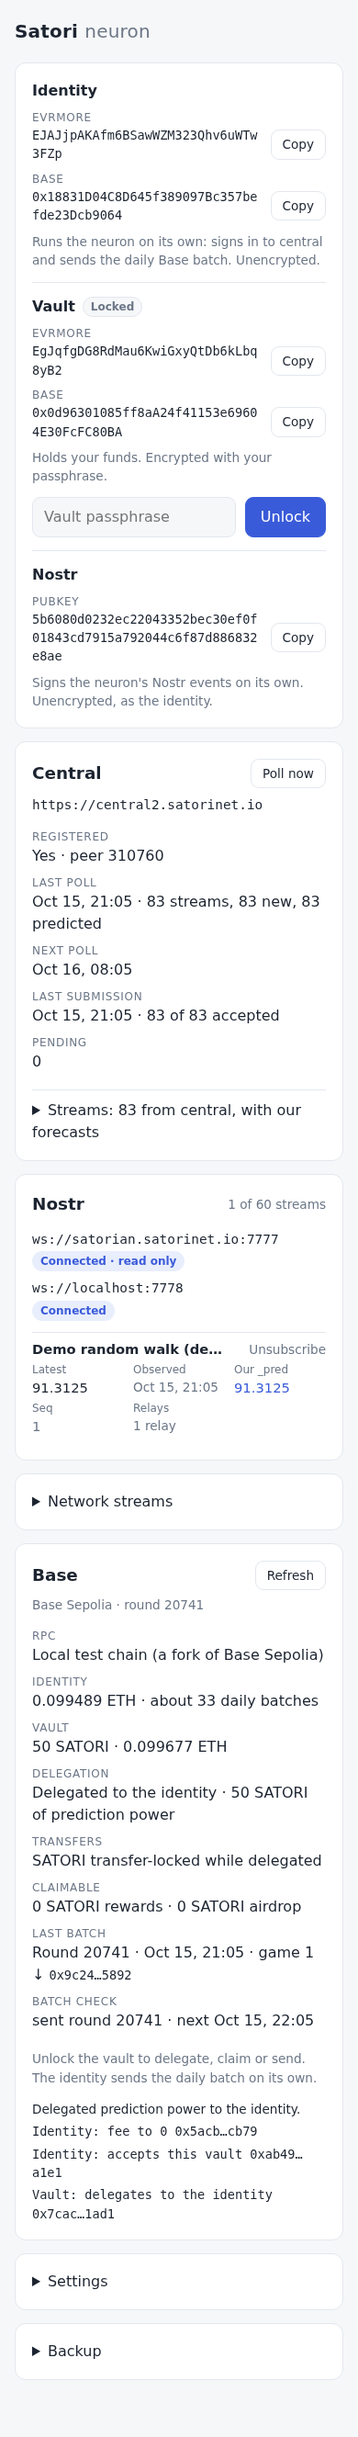
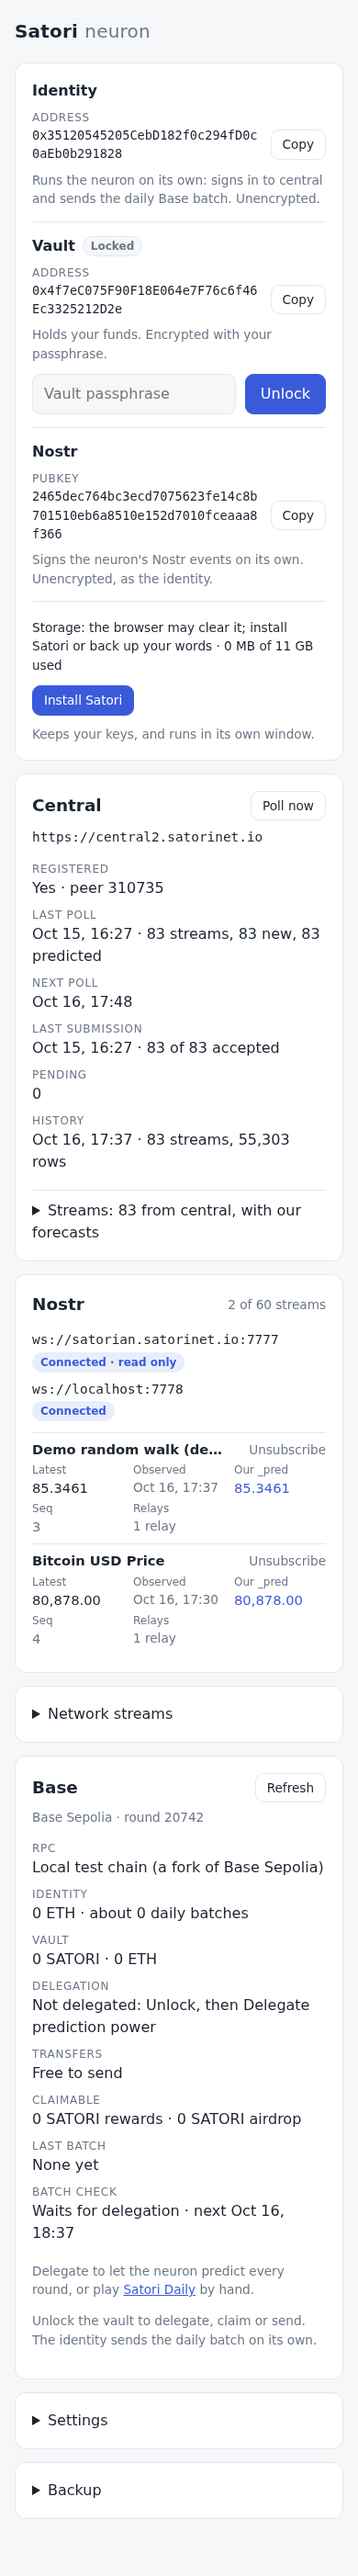
docs: screenshots from the running app: Home with Base addresses only (an earlier version's profile after the update), Import with the passphrase reuse, the passphrase rule; Unlock's cost measured in Chrome (seal 0.29-0.30 s, open 0.26-0.30 s)

diff --git a/docs/design/keys.md b/docs/design/keys.md
@@ -107,9 +107,10 @@ nothing):
   IV. A fresh salt means a fresh key each time, so an IV is never reused.
 - **Wrong passphrase:** GCM's tag fails, so a wrong passphrase (or any changed
   byte) is `Wrong passphrase`, with nothing decrypted.
-- **Cost:** about 1 s per Unlock in Node on this shared box (seal 1.3 s,
-  open 1.1 s at load ~4); Chrome's WebCrypto is native too. One Unlock pays it
-  once; an attacker pays it per guess.
+- **Cost:** measured in Chrome on this shared box (dev server, 2026-10-16):
+  seal 0.29–0.30 s, open 0.26–0.30 s. One Unlock pays it once; an attacker
+  pays it per guess. (An earlier version's vault takes satorilib's
+  PBKDF2-SHA1 × 1,000,000 per field once more, at its first Unlock: 0.7–1.5 s.)
 - **Why not Argon2id or scrypt**, OWASP's first choices: WebCrypto has
   neither. `@noble/hashes` (already a dependency) has both in pure JS, several
   times slower than native, so at the same wait an attacker on native code or
@@ -117,6 +118,8 @@ nothing):
   them. Not clearly better here, so not used.
 
 ## Passphrases
+
+![Choose a passphrase: at least 8 characters, in any language or script; 密码密码 (4) refused](../screenshots/passphrase.png)
 
 **At least 8 characters, any Unicode, no other rule** (`MIN_PASSPHRASE`,
 `checkNewPassphrase`). Counted in code points after NFC, as NIST SP 800-63B
@@ -155,6 +158,8 @@ migration re-encrypts the vault with it as it is.
   [below](#backup).
 
 ## Import: translate
+
+![Import Dockerized Neuron files, with "Use it as this app's passphrase too"](../screenshots/import.png)
 
 **Import Dockerized Neuron files** takes `wallet.yaml`, `vault.yaml`, the
 Docker vault password and, optionally, `nostr.yaml`. `src/keys/docker.js`
@@ -223,6 +228,13 @@ that version's own code (`scripts/profile_fixtures.mjs`).
 | Docker import before ecf3ae0: a `vault.yaml` with **no plain `publicKey`** | the same; the vault's address is unknown | the app opens on **Unlock to finish the update** (the neuron needs the vault's public key), then starts |
 | The step-1 prototype's sealed key, `meta.vault` (7be47fc) | not touched (never read since step 2); Setup | — |
 | A setup cut off after the vault row (no `wallet_yaml`) | not touched; Setup | — |
+
+In the running app (dev server, 2026-10-16): a browser profile set up by an
+earlier version on central2 opened on Home after the update, its Base
+addresses in the Keys card, registered again (`vaultMismatch: false`, so
+central's vault is the one whose public key the record kept), its
+subscriptions and history intact; wrong passphrases left its vault as it was.
+Home: [../screenshots/home.png](../screenshots/home.png).
 
 ## Backup
 
